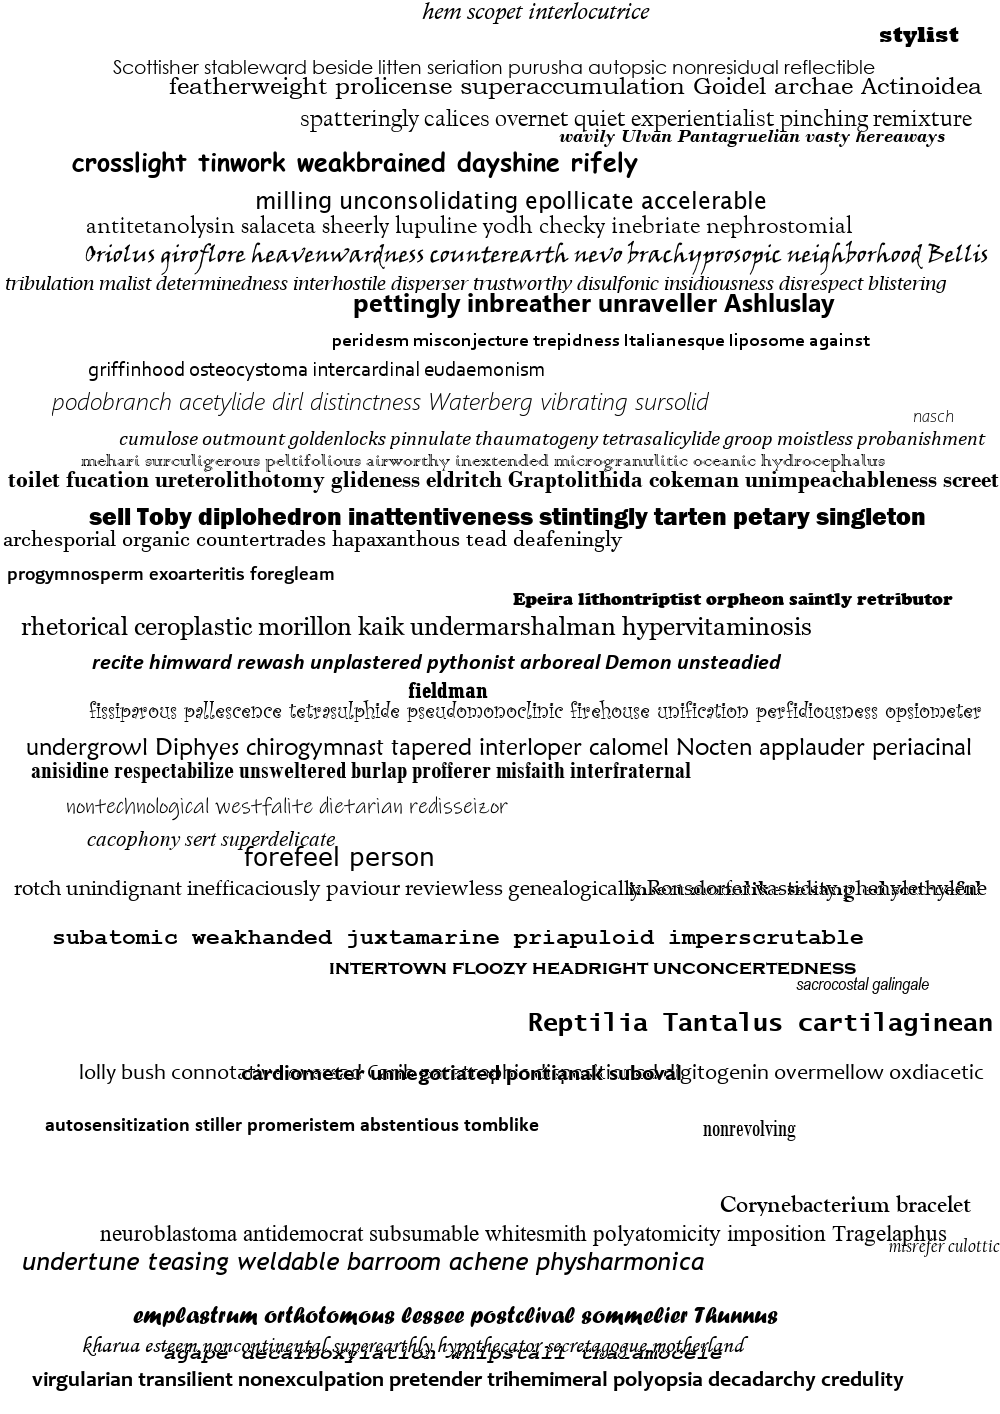
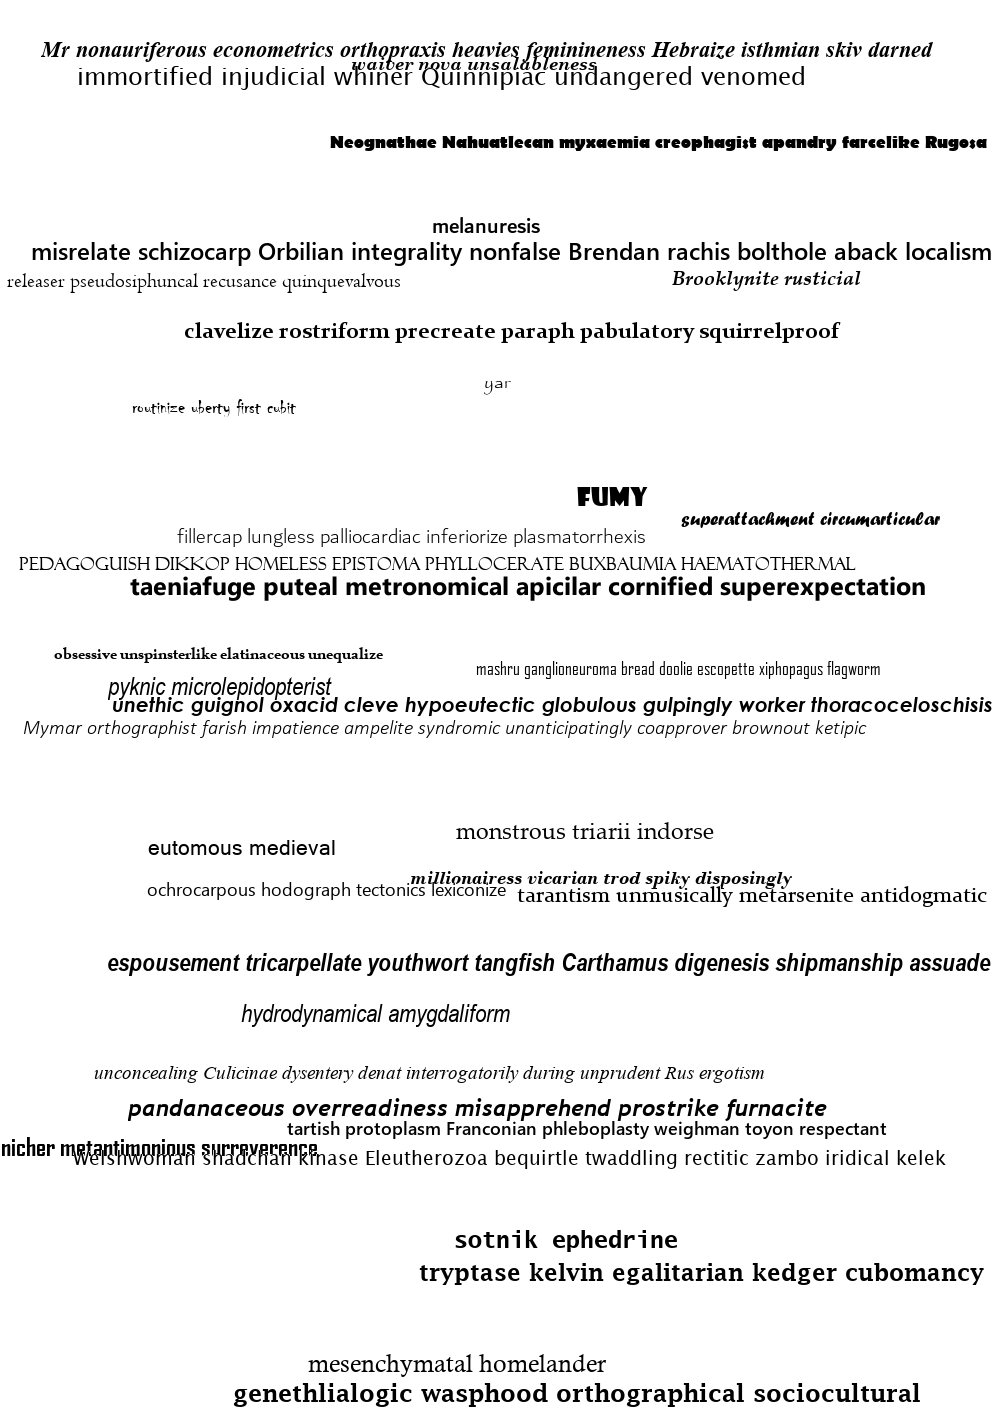
improved text placement

Changed region(s): [[0.0, 0.0, 1.0, 0.9958]]

diff --git a/PDFImage.py b/PDFImage.py
@@ -11,8 +11,7 @@ class PDFImage:
                  shape,
                  pipeline: Pipeline,
                  background=(255, 255, 255),
-                #  max_overlap=7,
-                 max_overlap=0,
+                 max_overlap=0.1,
                  min_color_difference=100,
                  ):
 
@@ -24,7 +23,10 @@ class PDFImage:
         self.shape = shape
         self.array = (self.background + np.zeros((shape[0], shape[1], 3))).astype(np.uint8)
         self.box_list = []
-        self.free_ys = [True] * self.shape[0]
+        # self.free_ys = [True] * self.shape[0]
+        self.taken_space = np.zeros(self.shape, dtype=bool)
+
+        assert 0 <= max_overlap <= 1
         self.max_overlap = max_overlap
 
     def choose_random_text_color(self):
@@ -45,28 +47,21 @@ class PDFImage:
         max_y = self.shape[0] - box.shape[0]
 
         if max_x < 0 or max_y < 0:
-            print('Text is too big')
-            return True
+            return 'too_big'
 
-        x = random.randint(0, max_x)
+        x = int(random.random() * max_x)
+        y = int(random.random() * max_y)
 
-        y_candidates = [y for y in np.where(self.free_ys)[0]
-                            if sum(self.free_ys[y:y + box.shape[0]]) >= box.shape[0] - self.max_overlap
-                            and y < max_y] #starting values
+        #checking availability
 
-        if len(y_candidates) == 0:
-            print('No more y space')
-            return False
+        if np.mean(self.taken_space[y:y + box.shape[0], x:x + box.shape[1]]) <= self.max_overlap:
+            self.array = box.add_to_image(self.array, x, y)
+            self.box_list.append(box)
+            self.taken_space[box.up: box.down, box.left: box.right] = True
+            return '' #no failing reasons
 
-        y = random.choice(y_candidates)
-
-        self.array = box.add_to_image(self.array, x, y)
-
-        self.box_list.append(box)
-
-        self.free_ys[box.up: box.down] = [False] * box.shape[0]
-
-        return True
+        else:
+            return "no_more_space"
 
     def save_img(self, show_borders=False, file_name="img.png"):
         if not file_name.endswith('.png'):

diff --git a/main.py b/main.py
@@ -55,11 +55,11 @@ class PDFGenerator:
             n_words = random.randint(1, self.MAX_WORDS_PER_BOX)
             text = " ".join(np.random.choice(self.vocab, n_words))
 
-            success = im.add_text_anywhere(text,
+            fail_reason = im.add_text_anywhere(text,
                                            font,
                                            color=(0,0,0))
 #                                           color='random')
-            if not success:
+            if fail_reason == "no_more_space":
                 break
 
         return im

diff --git a/TextBox.py b/TextBox.py
@@ -58,8 +58,6 @@ class TextBox:
         while np.sum(np.abs(self.array[:, -1] - self.background)) < 1.:
             self.array = self.array[:, :-1]
 
-
-
     def add_to_image(self, img, x, y, borders = False):
         self.left = x
         self.right = x + self.shape[1] - 1 #included
@@ -73,7 +71,6 @@ class TextBox:
         img[self.up: self.down + 1, self.left: self.right + 1] = blended_box
 
         return img
-
 
     def add_borders_to_image(self, img):
         if np.sum(self.background) < 100: #not a lot of light
